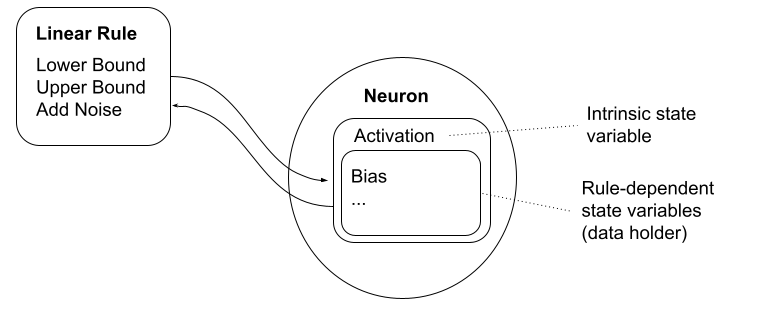
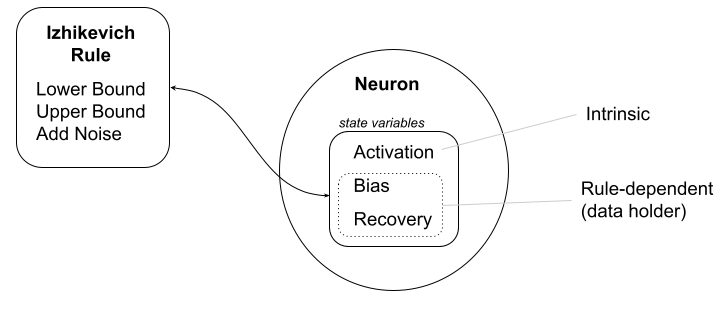
misc updates with pictures. i'm not happy with these yet but don't want to lose anything. most of the images will change.

diff --git a/src/docs/network/updateLogic.md b/src/docs/network/updateLogic.md
@@ -3,7 +3,7 @@ title: Update Logic
 layout: default
 parent: Networks
 has_children: false
-nav_order: 15
+nav_order: 1
 ---
 
 # Network Update Logic
@@ -32,17 +32,37 @@ The default action, and usually all that is needed, is buffered update. The valu
 Here is the basic algorithm in pseudo code:
 ```kotlin
 for model in networkModels:
-	model.updateInputs()
+	model.accumulateInputs()
 for model in networkModels:
 	model.update()
 ```
 
 That is, first accumulate all the inputs to every network model. Then, in a separate step, update all the network models. This ensures deterministic updating regardless of the order in which the list of network models is traversed.
 
-To see this, consider the network below. Without buffering, we would get different results depending on update order. If update order is $$n_1 \rightarrow n_2 \rightarrow n_3$$ then in one iteration, $$n_2$$ and $$n_3$$ will be activated. However, if update order is $$n_2 \rightarrow n_3 \rightarrow n_3$$ then in one iteration only $$n_2$$ will be activated. (This can actually be tested using priority update, discussed next). However, if buffered update is used, first $$n_2$$ will be updated on the first time step, and then $$n_3$$, so that (somewhat realistically) we can observe activation propagate.
+### Network Model Update Order
+
+Even with buffering it does matter what order network models are updated in (for example, a [Hebbian](synapses/hebbian.html) synapse updated before or after neuron update will often produce different results. Network models are updated in the following order:
+
+- Neuron
+- NeuronGroup
+- NeuronCollection
+- NeuronArray
+- Connector
+- SynapseGroup
+- Subnetwork
+- Synapse
+- All Others 
+
+To customize this [custom simulations](simulations) are the easiest way.
+
+### Why Buffering Matters
+
+To see why buffering matters, consider the network below. Without buffering, we would get different results depending on update order. 
+
+- If update order is $$n_1 \rightarrow n_2 \rightarrow n_3$$ then in one iteration, $$n_2$$ and $$n_3$$ will be activated. 
+- However, if update order is $$n_2 \rightarrow n_3 \rightarrow n_3$$ then in one iteration only $$n_2$$ will be activated. (This can actually be tested using priority update, discussed next). However, if buffered update is used, first $$n_2$$ will be updated on the first time step, and then $$n_3$$, so that (somewhat realistically) we can observe activation propagate.
 
 <img src="/assets/images/updateOrder.png" alt="Edit update sequence" style="width:300px;"/>
-
 
 ## Priority Based Update of Free Neurons
 
@@ -51,7 +71,7 @@ Buffered update is convenient but not always desired. Sometimes we __want__ a ne
 Here is the basic algorithm in pseudo code:
 ```kotlin
 for model in prioritySortedNetworkModels:
-	model.updateInputs()
+	model.accumulateInputs()
 	model.update()
 ```
 
@@ -59,12 +79,11 @@ In this case network models are associated with a priority which the user can se
 
 However, in practice, it's often not needed, because relevant subnetworks already update in this way.
 
-Currently only neurons are updated using priority update. If there is a demand for other items (in particular neuron arrays) to be updated using priority based update it will be added. When priority-based update is used, `Buffered Update` should be removed fro the update list, and all other groups, arrays, etc must be manually updated. 
-
+Currently priority is only used for neuron update. If there is a demand for other items (in particular neuron arrays) to be updated using priority based update it will be added. When priority-based update is used, `Buffered Update` should be removed fro the update list, and all other groups, arrays, etc must be manually updated. 
 
 # Neuron Groups and Subnetworks
 
-Neuron groups and [subnetworks](subnetworks/subnetworks.html) have their own customized update functions. For example, feedforward networks [link] update the input nodes first, then hidden layers in sequence, then  output nodes. Neuron collections don't have custom update.
+Neuron groups and [subnetworks](subnetworks) have their own customized update functions. For example, [feedforward](subnetworks/feedForward.html) networks update the input nodes first, then hidden layers in sequence, then  output nodes.  [Neuron collections](neurongroups/index.html#neuron-collections) don't have custom update. [Hopfield](subnetworks/hopfield.html) networks have three kinds of update, including stochastic update where a random node is selected for update each iteration.
 
 # Update Rules Operate on Scalar Data
 
@@ -84,15 +103,22 @@ In that case the only rule-dependent variable is a bias, but in other cases, lik
 
 The same rules that operate on scalar data can operate on array data. All the parameters are the same, and the editor dialog is the same, but in the code, array data is operated on.  In Simbrain this is general represented using [Smile matrix](https://haifengl.github.io/linear-algebra.html) objects.
 
-<img src="/assets/images/ruleAndDataHolderArray.png" alt="neuron rule and data holder" style="width:600px;"/>
+<img src="/assets/images/ruleAndDataHolderArray.png" alt="neuron rule and data holder" style="width:8	00px;"/>
 
 
 # Synapses, Learning Rules, and Spike Responders
 
-The same basic structure is used for synapses, but there is a bit more going on. This is based on the fact that synapse learn with learning rules, but also sometimes must react in a dynamical way to spiking events. However, in the default case all they are is weights that are multipled by pre-synaptic neuron activations.
+Each synapse has a PSR. The PSR can just be source activation times weight (simple case) or a more complex spiking case.  Weight may be updated. But regardless. Summed psr is accumulated. Then the neuron update rule (“activation function”) is applied Activation is the result. (See book activatoin function chapter)
+
+Here is the basic case for how synapses work
 
 To accomodate all this, the following structure is used:
-<img src="/assets/images/synapseRules.png" alt="synapse spike responder and learning rule" style="width:600px;"/>
+<img src="/assets/images/synapseRulesBasic.png" alt="synapse basics" style="width:600px;"/>
+
+But it gets more complex. The same basic structure from aboe is used for synapses, but there is a bit more going on. This is based on the fact that synapse learn with learning rules, but also sometimes must react in a dynamical way to spiking events. However, in the default case all they are is weights that are multipled by pre-synaptic neuron activations.
+
+To accomodate all this, the following structure is used:
+<img src="/assets/images/synapseRulesFull.png" alt="synapse spike responder and learning rule" style="width:600px;"/>
 
 The synapse has two main intrinsic state variables: `psr` or post-synaptic-response, and `strength`. The strength is the classic weight value of a synapse. The `psr` is a variable that corresponds to the "output" of the synapse. In the basic case, the `psr` is just the source neuron activation for the synapse times the weight strength. In the case shown, if the weight strength is .5, then the psr is .2 * .5, and so on update the target synapse is set to .1. Often in a neural network this is all we have.
 
@@ -112,8 +138,6 @@ fun Synapse.updatePSR():
 		psr = source.activation * weightStrength
 ```
 
-
-
 For a given neuron,  `update()` just works by iterating through fan-in synapses and calling `updatePSR()`, and then aggregating these to update activation. This allows connectionist and spiking neurons to connect to the same neuron
 
 ```kotlin
@@ -123,15 +147,19 @@ fun Neuron.update()
 		activation += synapse.psr
 ```
 
+Again PSR is our generic construct. The node’s net input is just the accumulated psr. That is then modified by act function. TODO: Show activation function working.
+
+<img src="/assets/images/multipleSynapses.png" alt="summation" style="width:300px;"/>
+
 # Synapses, Learning Rules, and Spike Responders (array case)
 
-The  same structure applies to [neuron arrays and weight matrices](arraysMatrices.html). In fact in the code the rule objects are shared. This shows the structure:
+The  same structure applies to [neuron arrays and weight matrices](arraysMatrices.html). In fact in the code the rule objects are shared. Here again `psr` is the "output", but this time of a whole weight matrix. This it is a `psrmatrix`. If there is no spike responder set, the `psrmatix` is the matrix product the source activaiton vector and the actual weight matrix. If there is a [spike responder](spikeresponders/), it is applied to the weight matrix object, and directly updates the `psrmatrix`, using the `weightMatrix`, `source.activationArray` as needed, and anything other matrix-shaped state variables (like a matrix of recovery variables) associated the spike responder itself.
 
-<img src="/assets/images/weightMatrixRules.png" alt="Weight matrix rule objects" style="width:500px;"/>
-
-Here again `psr` is the "output", but this time of a whole weight matrix. This it is a `psrmatrix`. If there is no spike responder set, the `psrmatix` is the matrix product the source activaiton vector and the actual weight matrix. If there is a [spike responder](spikeresponders/), it is applied to the weight matrix object, and directly updates the `psrmatrix`, using the `weightMatrix`, `source.activationArray` as needed, and anything other matrix-shaped state variables (like a matrix of recovery variables) associated the spike responder itself.
+<img src="/assets/images/synapseRulesMatrix.png" alt="Weight matrix rule objects" style="width:500px;"/>
 
 Thus, for a neuron array,  `update()` iterates through a fan-in of weight matrices, calling `updatePSR()` on each one, and then adding the resulting `psrMatrices` using vector addition to update the neuron's activations. This allows connectionist and spiking input arrays to feed to the same neuron array.
+
+Again we sum PSR's but now we are “summing PSR matrices” and then mutating them.
 
 
 # Continuous and Discrete Time Update

diff --git a/src/docs/network/index.md b/src/docs/network/index.md
@@ -15,10 +15,6 @@ Networks are built by creating neurons and connecting them with synapses. They a
 
 Networks contain a variety of objects (we call them ``network models''), including free-floating neurons and synapses, but also neuron arrays and weight matrices for array-based network, and a wide array of other more complex structures. Most objects can be linked to one another with different types of adapters. By combining these together you can create indefinitely many different kinds of networks. Many tools exist for organizing, arranging, training, and linking these objets together. Some of these objects have many subtypes, such as neurons (many kinds of neuron update rule). On this page we give general information about networks in Simbrain, and the sub-menus give more specific information for objects with subtypes.
 
-TODO [point Mike to source code for this]:
-- Neuron Groups: SOM, Competitive, WTA, etc.
-- Synapse Rules: Long list.
-
 
 # Main Object Types
 
@@ -29,7 +25,6 @@ TODO [point Mike to source code for this]:
 Free neurons and synapses are part of ``classic'' Simbrain, allowing networks of arbitrary topology to be organized together. Both Neurons or nodes and synpases or weights are associated with update rules.
 
 Simbrain has two kinds of rules: activation-based neurons, and **spiking neurons**, and also allows the two to co-exist. Activation-based neurons are used in more traditional, connectionst types of application, which abstract from biological details, while spiking neurons are used in more biologically realistic simulations. Since spikes are discrete events without a numerical value, some way of converting them into numbers is required (e.g. when a spike arrives at a synapse). This is handled using **spike responders**. See [computational neuroscience].
-
 
 [Add image] For details on what they represent see [visual conventions](#visual-conventions). 
 

diff --git a/src/docs/network/neurongroups/index.md b/src/docs/network/neurongroups/index.md
@@ -1,12 +1,12 @@
 ---
-title: Neuron Groups
+title: Neuron Groups and Collections
 layout: default
 parent: Networks
 has_children: true
 nav_order: 50
 ---
 
-# Neuron Group
+# Neuron Groups
 
 A neuron group is a logical grouping of neurons surrounded by a gray line and an [interaction box](../groups.html#interactionBox). There are various types of neuron groups in Simbrain, each with parameters that can be set, and they are also constituents of [subnetworks](../subnetwork.html). This page covers properties common to all neuron group types. Details of each type can be found on their respective page.
 
@@ -79,3 +79,10 @@ See the [test inputs](../training/testInputs.html) page.
 ## Subsampling
 
 When a large neuron group is [coupled](../../Workspace/Couplings.html) to an external component (e.g. a [Projection Plot](../../../Pages/Plot/projection.html)), the relevant computations can become quite expensive and slow the simulation down. In these situations, [statistical sampling](https://en.wikipedia.org/wiki/Sampling_(statistics)) is used. For example, when activations are sent from a neuron group with 1000 neurons to a plot, only 100 of the neuron activations will be sent (assuming subsampling is turned on and `numSubsamples` is 100). Some subset of the neurons in a neuron group are sampled. The parameters for subsampling are set in the [Network Preferences](../network_prefs.html) dialog.
+
+
+# Neuron Collections
+
+Neuron Groups are closely related to neuron collections but are not the same. 
+
+TODO

diff --git a/src/docs/network/arraysMatrices.md b/src/docs/network/arraysMatrices.md
@@ -16,7 +16,12 @@ Simbrain originated as a way to focus intuition on loose or "free"-standing neur
  
 These are represenations of arrays of neurons. They are column vectors in the underlying code. They can be represented as a line or grid by using a toggle button. They are updated using the same [update logic](updateLogic.html) as with free neurons. In fact the rule objects are shared.
 
-
 ## Weight matrices
  
 These are represenations of weights. They can be updated using shared local learning rules. They are shadowed by a matrix of post synaptic responses to allow for for spiking rules in a matrix setting. Right click context menu allows common operations.
+
+The PSR matrix is the fundamental "output" of a weight matrix. The logic is parallel to that of a synapse.
+
+## Differences with synapse group
+
+Synapse groups are collections of synapses and thus have a few extra features, including delays and polarity and more learning rules.
